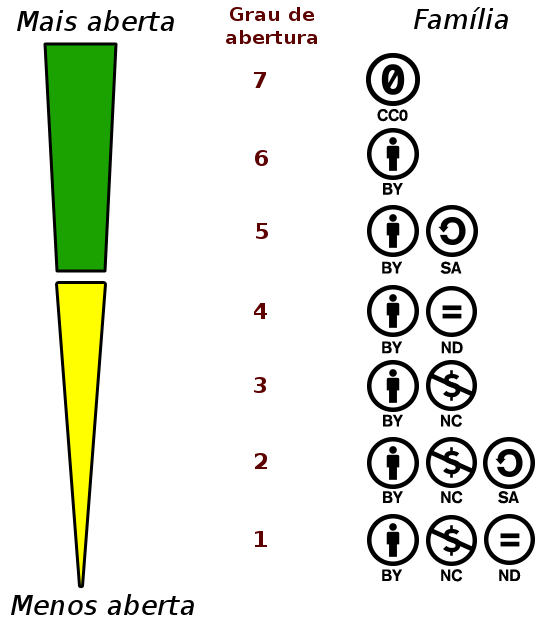
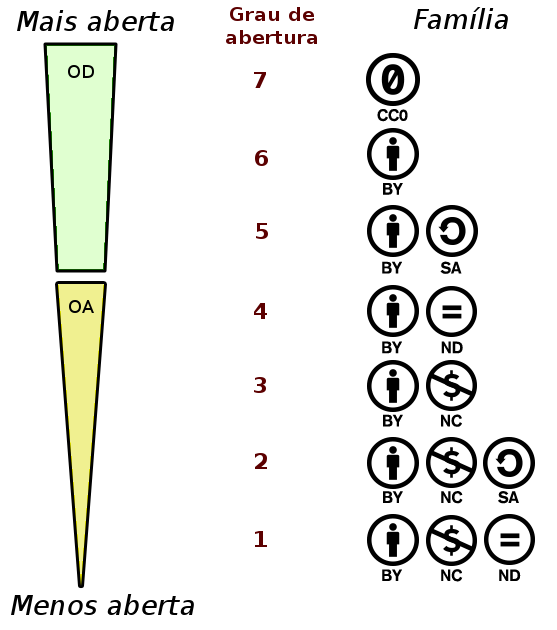
many changes, first draft

Changed region(s): [[0.061, 0.0603, 0.2136, 0.9048]]

diff --git a/src/php/ws_fake1.htm b/src/php/ws_fake1.htm
@@ -1,0 +1,171 @@
+<!-- na config SVGGraph, svg_class="gpie", pad_right, pad_left... aspect_ratio=1.0 -->
+<style>
+	#demo233 table{
+		border-collapse: collapse;
+		background-color:#FFF;
+	}
+
+	#demo233 table td { 
+		border: 1px solid #999;
+		text-align:center; 
+	}
+
+	#demo233 tr.avg td {
+		padding: 4pt 4pt 4pt 4pt;
+	}
+	#demo233 tr.avg td span.qt { font-size: 8pt;}
+
+	/* ---- */
+	#demo233 td span, #demo233 svg text tspan, #demo233 tr.avg svg text {
+		font-style: italic;
+		color:#403; 
+		fill: #403;
+	}
+	#demo233 tr.vertical td svg { /* rectangles */
+		width:13pt;
+	}
+	/* pie 
+	#demo233 tr.avg td svg { 
+		outline: thin solid red;
+	}*/
+
+	#demo233 tr.avg svg text {
+		font-size: 12pt;
+	}
+
+	#demo233 td.vertival { vertical-align:middle; text-align:center; }
+	#demo233 td.vertival svg  { display:block; margin:0 ; }
+
+	#demo233 svg text,  #demo233 svg tspan {
+		font-size: 9pt;
+		text-anchor:start; 
+		alignment-baseline:middle;
+	}
+</style>
+<div id="demo233">
+    <table class="ometrics">
+	<tr class="avg"> <td colspan='8' align='center'><!-- style="border-bottom-color: #FFF;" -->
+		<b>Coleção Tal</b>, <i>grau de abertura</i>
+	</td>
+	</tr>
+
+        <tr class="avg">
+		<td colspan="7" width="300">
+		<table border="0">
+		<tr>
+		<td  style="border-color: #FFF;">
+				avg <b>3.8</b> <br/>&#160;<br/><span>100%</span> <br/><span class="qt">1000 documents</span>
+		</td>
+		<td style="border-color: #FFF;" align="left">
+			<!-- melhor uma subtable -->
+			<svg width="200" height="175" version="1.1" xmlns:xlink="http://www.w3.org/1999/xlink" xmlns="http://www.w3.org/2000/svg">
+				<path fill="#E0FFD0" stroke="rgb(180,140,140)" stroke-width="1px" stroke-linejoin="round" id="ec" d="M100,103.5 L161.5,103.5 A61.5 61.5 0 1,1 38.5,103.5 z"/>
+				<path fill="#F0F090" stroke="rgb(180,140,140)" stroke-width="1px" stroke-linejoin="round" id="ee" d="M97.945,71.633 L36.445,71.633 A61.5 61.5 0 0,1 157.42,55.964 z"/>
+				<path fill="#F59090" stroke="rgb(180,140,140)" stroke-width="1px" stroke-linejoin="round" id="eg" d="M115.87,85.445 L175.34,69.776 A61.5 61.5 0 0,1 177.37,85.445 z"/>
+				<g>
+					<g><text font-family="Georgia" font-size="18px" fill="#000" x="100.5" y="156.43" text-anchor="middle">50.0%</text></g><g><text font-family="Georgia" font-size="18px" fill="#000" x="92.52" y="32.69" text-anchor="middle">45.9%</text></g>
+					<g><text font-family="Georgia" font-size="18px" fill="#000" x="162.11" y="86.32" text-anchor="middle">4.1%</text></g>
+				</g>
+			</svg>
+		</td>
+
+		</tr></table>
+
+	</td>
+
+	<td>unknown <br/><span class="qt">121 documents</span></td>
+
+	</tr>
+
+        <tr class="avg">
+		<td colspan="3" class="ometrics-od">
+			<img width='28' align='absmiddle' src='../assets/licenseGroup-od.png'/>&#160;
+			avg <b>5</b>
+			<br/><span class="qt">500 documents</span></td>
+		<td colspan="2" class="ometrics-oa">
+			<img width='28' align='absmiddle' src='../assets/licenseGroup-oa.png'/>&#160;
+			avg <b>3</b>
+			<br/><span class="qt">459 documents</span></td>
+		<td colspan="2" class="ometrics-rt">
+			<img width='28' align='absmiddle' src='../assets/licenseGroup-rt.png'/>&#160;
+			avg <b>-1</b>
+			<br/><span class="qt">41 documents</span></td>
+		<td><span>11%</span> over<br/> all <span class="qt">1121</span></td>
+	</tr>
+
+        <tr class="vertical"><!-- FAMILIES -->
+		<td class="ometrics-od" width="50">
+			<b>7</b><br/>
+			<svg id="od1" width="16" height="120" xmlns="http://www.w3.org/2000/svg">
+				<rect y="105" height="15" width="16" style="fill:#AAF;" />
+				<text transform="rotate(270, 12, 0) translate(-105,0)"><tspan>11%</tspan> &#160; CC0</text>
+
+			</svg>
+		</td>
+		<td colspan="2"  class="ometrics-od"  width="50">
+			<b>6</b><br/>
+			<svg width="16" height="120" xmlns="http://www.w3.org/2000/svg">
+				<rect y="70" height="50" width="16" style="fill:#AAF;" />
+				<text transform="rotate(270, 12, 0) translate(-105,0)"><tspan>39%</tspan> &#160; BY</text>
+			</svg>
+		</td>
+
+		<td  class="ometrics-oa"  width="50">
+			<b>3</b><br/>
+			<svg id="od1" width="16" height="120" xmlns="http://www.w3.org/2000/svg">
+				<rect y="105" height="15" width="16" style="fill:#AAF;" />
+				<text transform="rotate(270, 12, 0) translate(-105,0)"><tspan>11%</tspan> &#160; BY-NC</text>
+			</svg>
+		</td>
+		<td class="ometrics-oa"  width="50">
+			<b>1</b><br/>
+			<svg id="od1" width="16" height="120" xmlns="http://www.w3.org/2000/svg">
+				<rect y="105" height="15" width="16" style="fill:#AAF;" />
+				<text transform="rotate(270, 12, 0) translate(-105,0)"><tspan>11%</tspan> &#160; BY-NC-ND</text>
+			</svg>
+		</td>
+		<td colspan="2" class="ometrics-rt" width="50">-1</td>
+		<td rowspan="2">-</span></td>
+	</tr>
+
+        <tr class="vertical">
+            <td colspan="2" valign="top" class="ometrics-od"><!-- OD block 50% -->
+		<svg id="od1"  width="16" height="160" xmlns="http://www.w3.org/2000/svg">
+			<text transform="rotate(270, 12, 0) translate(-140,0)"><tspan>11.0%</tspan> &#160; CC0</text>
+		</svg>
+
+                <svg xmlns="http://www.w3.org/2000/svg"  width="16" height="160">
+                  <text id="od2" transform="rotate(270, 12, 0) translate(-140,0)"><tspan>05.2%</tspan> &#160; CC-BY-v2.0</text>
+                </svg>
+            </td>
+            <td valign="top" class="ometrics-od">
+                <svg xmlns="http://www.w3.org/2000/svg"  width="16" height="160">
+                  <text id="od3" transform="rotate(270, 12, 0) translate(-140,0)"><tspan>33.8%</tspan> &#160; CC-BY-v3.0</text>
+                </svg>
+            </td>
+
+            <td class="ometrics-oa"><!-- OA block 45.9% -->
+                <svg xmlns="http://www.w3.org/2000/svg" width="16" height="160">
+                  <text id="oa1" transform="rotate(270, 12, 0) translate(-140,0)"><tspan>29.1%</tspan> &#160; CC-BY-NC-v3.0</text>
+                </svg>
+            </td>
+            <td class="ometrics-oa">
+                <svg xmlns="http://www.w3.org/2000/svg" width="16" height="160">
+                  <text id="oa2" transform="rotate(270, 12, 0) translate(-140,0)"><tspan>16.7%</tspan> &#160; CC-BY-NC-ND-v3.0</text>
+                </svg>
+            </td>
+
+            <td class="ometrics-rt"><!-- RT block 4.1% -->
+                <svg xmlns="http://www.w3.org/2000/svg" width="16" height="160">
+                  <text id="od3" transform="rotate(270, 12, 0) translate(-140,0)"><tspan>03.3%</tspan> &#160; COPYR0-v1</text>
+                </svg>
+            </td>
+            <td class="ometrics-rt">
+                <svg xmlns="http://www.w3.org/2000/svg" width="16" height="160">
+                  <text id="thetext"  transform="rotate(270, 12, 0) translate(-140,0)"><tspan>01.1%</tspan> &#160; COPYR-PAY-v1</text>
+                </svg>
+            </td>
+        </tr>
+
+    </table>
+</div>

diff --git a/src/assets/etc_lib.js b/src/assets/etc_lib.js
@@ -46,14 +46,26 @@ var g_state = {
 	// o ideal é armazenar em data-dom o valor padronizado. O estado pode ser uma string ou um json.
 };
 
+/// INTERFACE LIB
+
+function boxToggle(id) { // box icon minimize/maximize
+	var $obj = $('#'+id);
+	var $img = $obj.find('tr:first td:first img:first'); //.attr('src',minmax? '');
+	if ( $obj.find('tr.ometrics-report').toggle().is(':visible') )
+		src  = $img.attr('src').replace("maximize", "minimize");
+	else
+		src  = $img.attr('src').replace("minimize", "maximize");
+	$img.attr('src',src);
+}
+
 /// UTIL LIB 
 
 
-function keyVal_toString(lst) {
+function keyVal_toString(lst,sep) {
 	var s=[];
 	for(var i in lst)
  		s.push(i+'='+lst[i])
-	return s.join();
+	return (sep!==undefined)? s.join(sep): s.join();
 }
 
 

diff --git a/src/assets/ometrics.css b/src/assets/ometrics.css
@@ -1,3 +1,6 @@
+#selectedContent {
+	padding: 8pt 8pt 8pt 8pt;
+}
 table.ometrics {
     border: 2px solid #333;
 }

diff --git a/src/php/demo.php b/src/php/demo.php
@@ -11,12 +11,13 @@
 	<script src="../assets/etc_lib.js"></script><!-- g_state -->
 
 	<script>
+//ex. CC-BY=2604, CC-BY-SA=112, CC-BY-NC-ND=1162, CC-BY-NC=938, CC-BY-NC-SA=333, CC-BY-ND=47
 
 	var exemplos = [  // parametros set_OpenMetricsBox_byFamList()
 		{ xid: 'DOAJ2'
 		 ,title: 'DOAJ Seal 2015' 
 		 ,msg_pt: "pt As licenças default utilizadas pelas ... #stdDev# ... revistas são #RELAT#. #STDREPORT#"
-		 ,msg_en: "en licenses default utilizadas pelas ... #stdDev# ... revistas são #RELAT#. #STDREPORT#"
+		 ,msg_en: "Default licenses used by certified DOAJ jounals ... #stdDev# ... #RELAT#. #STDREPORT#"
 		 ,lst_type: 'families'
 		 ,lst: {  // DOAJ DEFAULT LICENSE FAMILIES
 			'CC BY':	2604,
@@ -53,16 +54,7 @@
 		}
 	];
 
-	g_state.onChangeHub = function (id,obj,params) { 
-		switch(id) {  // EACH STATE-CHANGE (by DOM id)
-		    case 'lang0':
-		    case 'degvers':
-		    case 'exemp':
-			return $(obj).val();
-		    default:
-			return null;
-		}
-	};
+
 	var langMsg = { // lang-template variables and its possible values
 		'pt':{langlabel:'Idioma', 	degvers:'Métrica de abertura, versão',
 			exemp:'Exemplos', 	thead: 'Medida do grau de abertura de um conjunto de obras pelas suas licenças',
@@ -84,6 +76,16 @@
 			$('#p_msg')	.val(exemplos[exIdx]['msg_'+lang]);
 	}
 
+	g_state.onChangeHub = function (id,obj,params) { 
+		switch(id) {  // EACH STATE-CHANGE (by DOM id)
+		    case 'lang0':
+		    case 'degvers':
+		    case 'exemp':
+			return $(obj).val();
+		    default:
+			return null;
+		}
+	};
 	g_state.afterChangeHub = function (id,obj,params) { 
 		switch(id) {  // EACH STATE-CHANGE (by DOM id)
 		    case 'lang0':
@@ -99,7 +101,7 @@
 			$('#p_id'). 	  val(exemplos[exIdx].xid);
 			$('#p_title'). 	  val(exemplos[exIdx].title);
 			$('#p_lst_type'). val(exemplos[exIdx].lst_type);
-			$('#p_lst').	  val( keyVal_toString(exemplos[exIdx].lst) );
+			$('#p_lst').	  val( keyVal_toString(exemplos[exIdx].lst, ', ') );
 			return true;
 
 		    default:
@@ -121,17 +123,10 @@
 			});
 		} // for optional layout see http://jsfiddle.net/Gajotres/xFPFH/
 
+		$('#selectedContent').load('ws_fake1.htm');
+
 	}); // onload
 
-	function boxToggle(id) {
-		var $obj = $('#'+id);
-		var $img = $obj.find('tr:first td:first img:first'); //.attr('src',minmax? '');
-		if ( $obj.find('tr.ometrics-report').toggle().is(':visible') )
-			src  = $img.attr('src').replace("maximize", "minimize");
-		else
-			src  = $img.attr('src').replace("minimize", "maximize");
-		$img.attr('src',src);
-	}
 	</script>
   <style>
 	h2 {
@@ -166,16 +161,17 @@
 </head>
 <body>
 <!--
+http://jsfiddle.net/Gajotres/xFPFH/
  http://localhost/openness-metrics/src/php/demo3.php?degvers=1
 -->
-
+PHP: falta get state
 <h2>Medida do grau de abertura de um conjunto de obras pelas suas licenças</h2>
 
 <form action="#">
 
 <table border="0" width="99%">
 <tr>
-<td width="30%">
+<td width="30%" valign="top">
    <fieldset>
     <label for="lang0">Idioma</label>
     <select name="lang0" id="lang0">

diff --git a/src/README.md b/src/README.md
@@ -1,0 +1,48 @@
+# Implementations
+Different servers and languages can be used as "*proxy* to the SQL resolution core". 
+
+# endpoints
+There are two approaches to handle methods at endpoints,
+
+  1. *one for each method*: pretty, but need a HTTP configuration, and this configs depends on server.
+  2. *one for all methods*: ugly but works fine and most simple!
+
+For the approach-2, Apache and Nginx are the two most common open source web servers in the world (together they are serving over 50% of traffic on the Internet).
+
+Syntax `endpoint_method/param1=val1;param2=val2;...` or `endpoint_method?param1=val1&param2=val2&...` Main endpoints and its parameters,
+
+* License resolution endpoints:
+
+ * licname_format:
+ * licname_to_name:
+ * licname_to_info:
+ * licqts_calc:
+
+* Family resolution endpoints:
+
+ * famname_format:
+ * famname_to_name:
+ * famname_to_id:
+ * famname_to_info:
+ * famqts_calc: 
+
+
+## Apache
+Apache2 `.htaccess`, on the VirtualHost's `DocumentRoot` directory of the mapped `ServerName` (`<subdomain>.<domain>`), add the folowing `.htaccess` file, for an endpoint syntax option:
+
+```
+RewriteEngine on
+
+# If requested url is an existing file or folder, don't touch it
+RewriteCond %{REQUEST_FILENAME} -d [OR]
+RewriteCond %{REQUEST_FILENAME} -f
+RewriteRule . - [L]
+
+# If we reach here, this means it's not a file or folder, we can rewrite...
+RewriteRule ^((?:lic|fam)(?:name_format|name_to_name|name_to_info|qts_calc)|famname_to_id)(?:/(.+))?(?:\?(.+))?$     index.php?cmd=$1&$2&params=$3 [L]
+```
+
+## Nginx
+?
+
+
